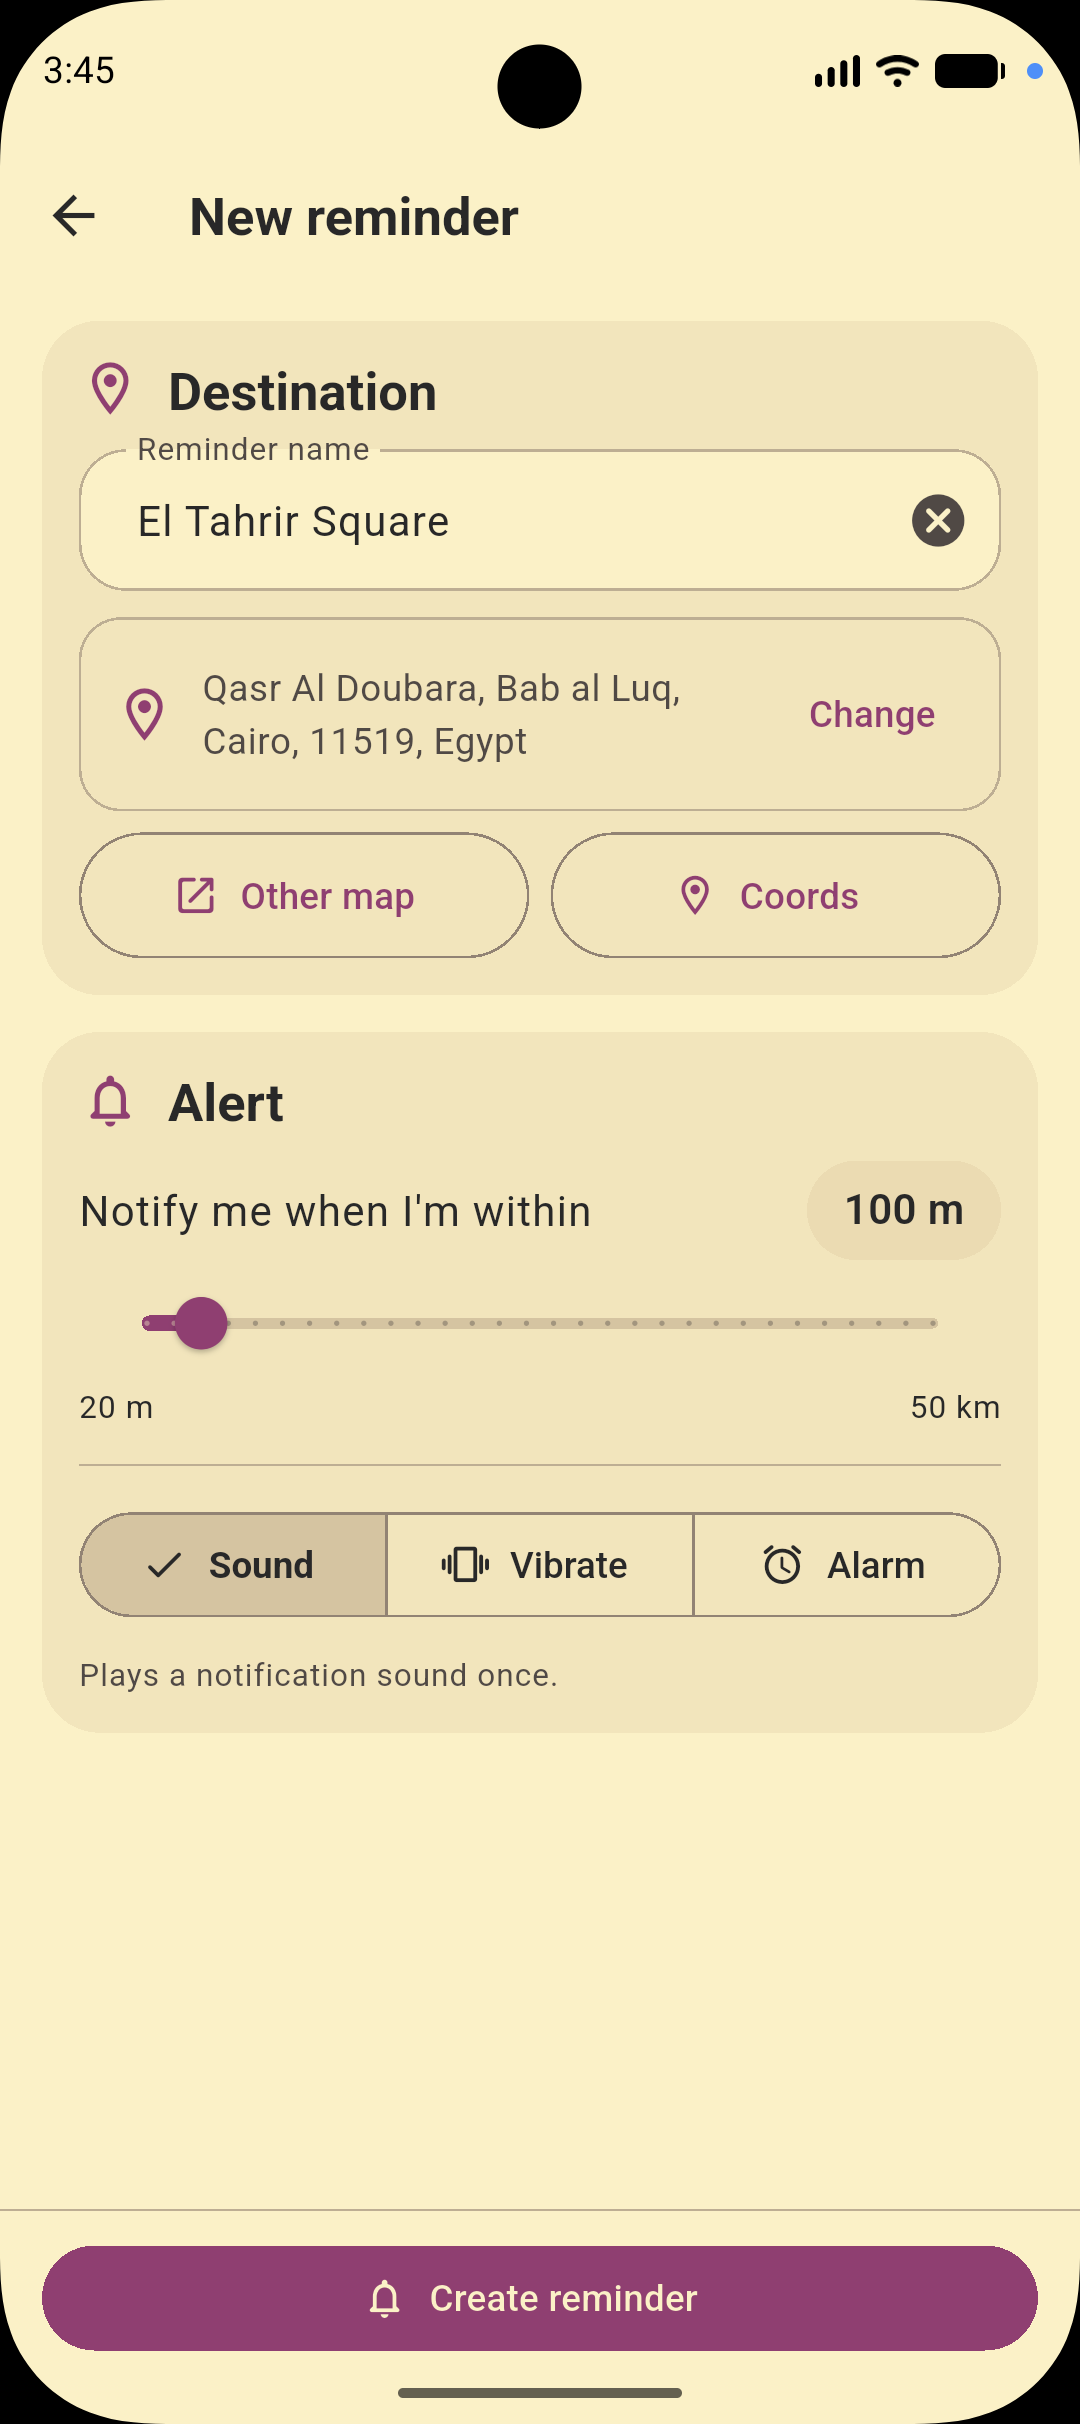
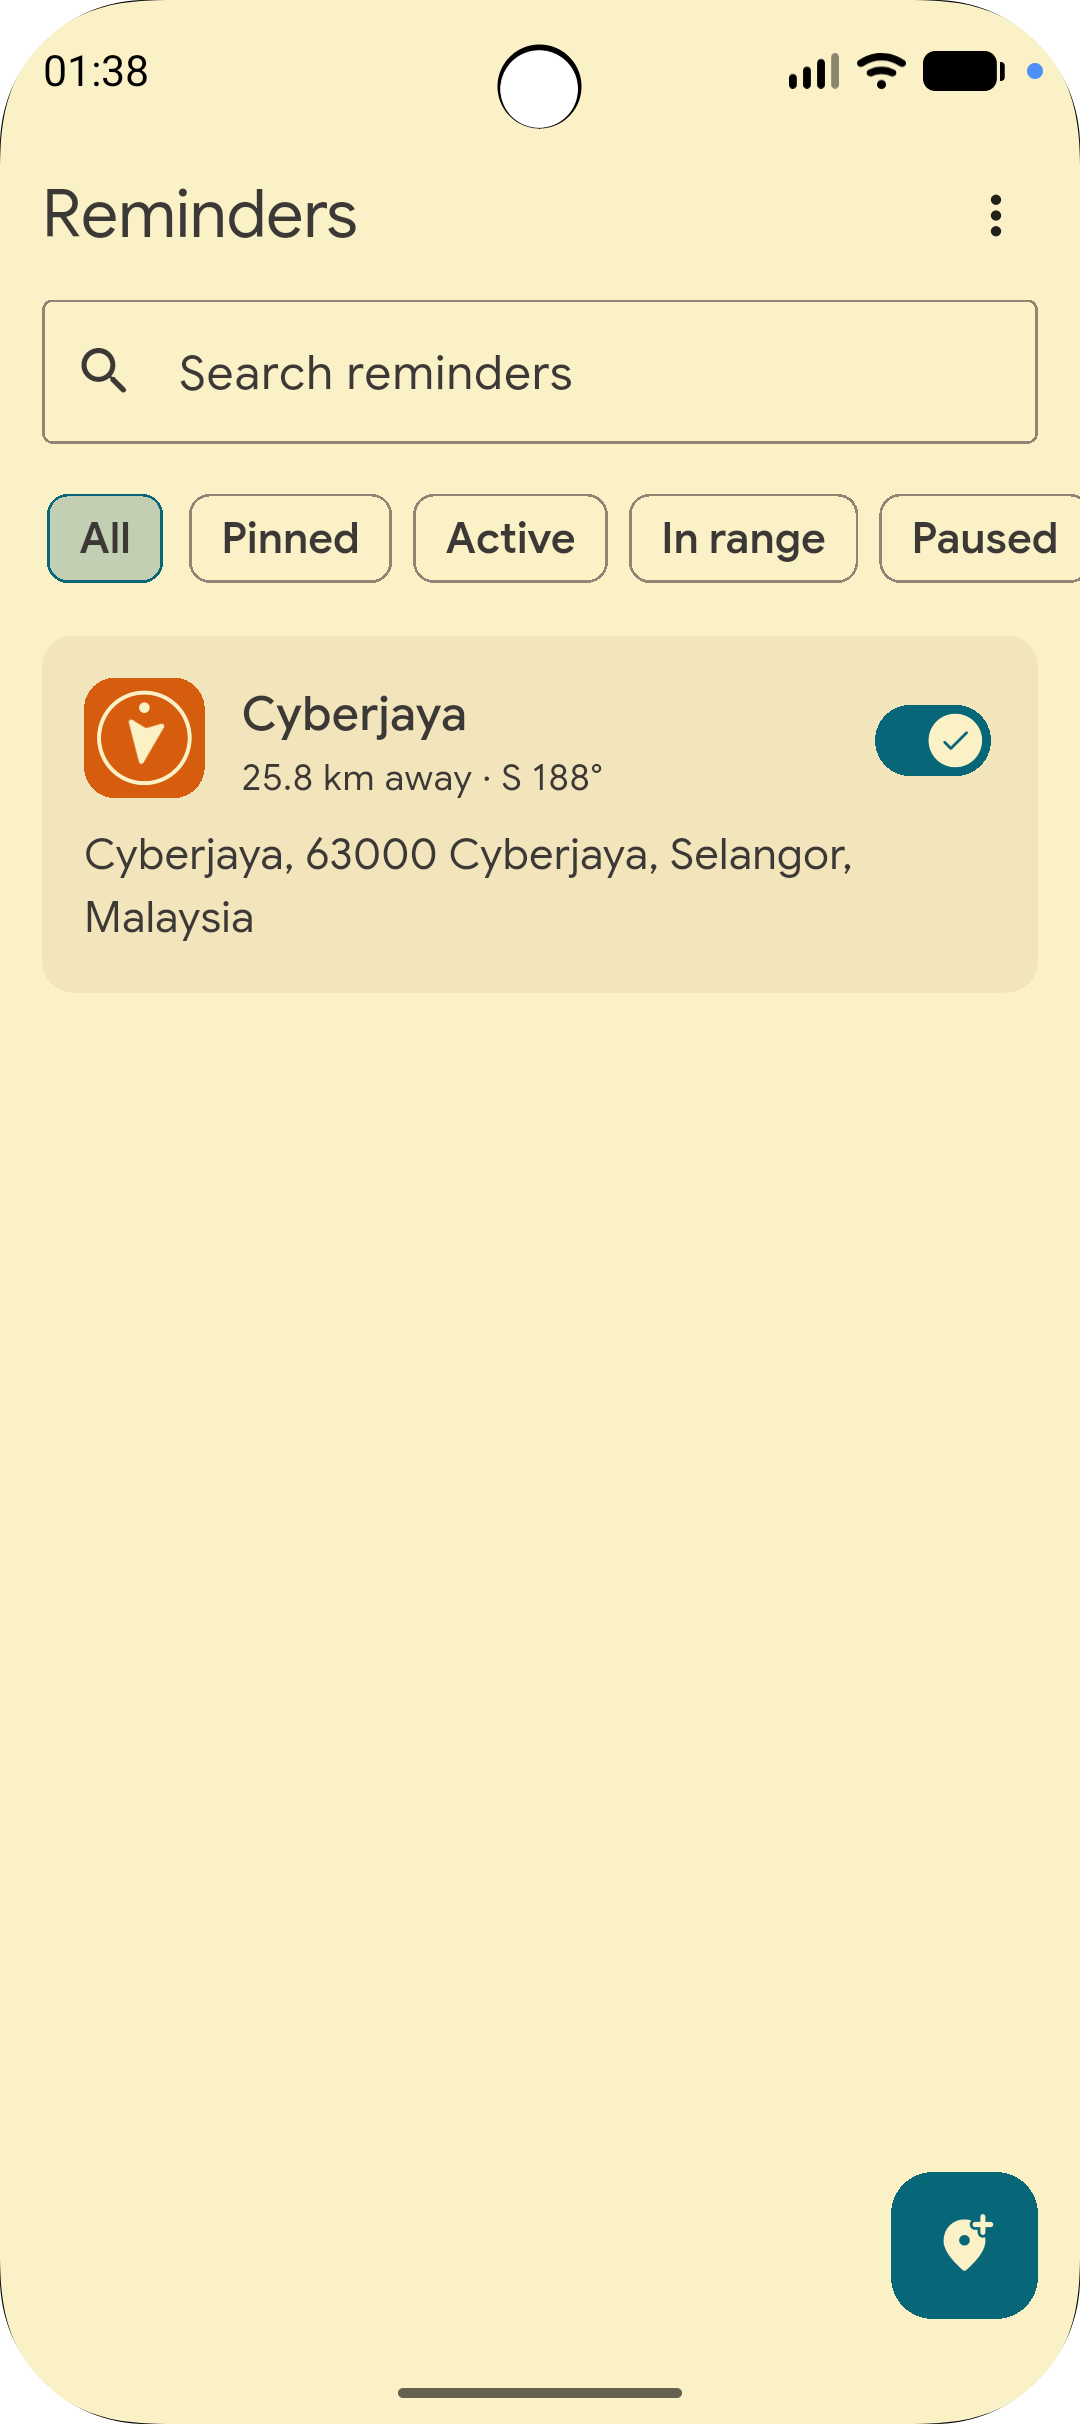
fix(l10n): fall back to English for unsupported locales (#103)
* fix(l10n): fall back to English for unsupported locales

* update app screenshots

diff --git a/index.html b/index.html
@@ -95,7 +95,7 @@
           <div class="screen-grid">
             <figure>
               <img
-                src="assets/screenshots/reminders.png"
+                src="fastlane/metadata/android/en-US/images/phoneScreenshots/2.png"
                 alt="Loc reminders screen showing active destinations"
                 loading="lazy"
               >
@@ -103,7 +103,7 @@
             </figure>
             <figure>
               <img
-                src="assets/screenshots/reminder-editor.png"
+                src="fastlane/metadata/android/en-US/images/phoneScreenshots/4.png"
                 alt="Loc reminder editor with alert distance and alert type controls"
                 loading="lazy"
               >
@@ -111,7 +111,7 @@
             </figure>
             <figure>
               <img
-                src="assets/screenshots/map-picker.png"
+                src="fastlane/metadata/android/en-US/images/phoneScreenshots/3.png"
                 alt="Loc map picker showing a destination at the Giza Pyramids"
                 loading="lazy"
               >

diff --git a/lib/l10n/l10n.dart b/lib/l10n/l10n.dart
@@ -15,3 +15,21 @@ Future<AppLocalizations> loadAppLocalizations(String? languageCode) {
   );
   return AppLocalizations.delegate.load(locale);
 }
+
+Locale resolveAppLocale(
+  List<Locale>? preferredLocales,
+  Iterable<Locale> supportedLocales,
+) {
+  for (final preferredLocale in preferredLocales ?? const <Locale>[]) {
+    for (final supportedLocale in supportedLocales) {
+      if (supportedLocale.languageCode == preferredLocale.languageCode) {
+        return supportedLocale;
+      }
+    }
+  }
+
+  return supportedLocales.firstWhere(
+    (locale) => locale.languageCode == 'en',
+    orElse: () => const Locale('en'),
+  );
+}

diff --git a/lib/main.dart b/lib/main.dart
@@ -110,6 +110,7 @@ class _LocAppState extends State<LocApp> with WidgetsBindingObserver {
             locale: state.locale,
             localizationsDelegates: AppLocalizations.localizationsDelegates,
             supportedLocales: AppLocalizations.supportedLocales,
+            localeListResolutionCallback: resolveAppLocale,
             theme: AppTheme.light(
               useSystemFont: state.useSystemFont,
               languageCode: state.effectiveLanguageCode,

diff --git a/test/localization_test.dart b/test/localization_test.dart
@@ -44,4 +44,12 @@ void main() {
 
     expect(find.text('Configurações'), findsOneWidget);
   });
+
+  test('unsupported device locale falls back to English', () {
+    final locale = resolveAppLocale(const [
+      Locale('de'),
+    ], AppLocalizations.supportedLocales);
+
+    expect(locale, const Locale('en'));
+  });
 }

diff --git a/lib/pages/map_picker_page.dart b/lib/pages/map_picker_page.dart
@@ -191,7 +191,7 @@ class _MapPickerPageState extends State<MapPickerPage> {
                   ),
                 ),
                 PositionedDirectional(
-                  start: 16,
+                  start: 0,
                   bottom: 0,
                   child: SafeArea(
                     child: Material(

diff --git a/README.md b/README.md
@@ -39,11 +39,11 @@
 ## Preview
 
 <p align="center">
-  <img src="assets/screenshots/map-picker.png" width="30%">
+  <img src="fastlane/metadata/android/en-US/images/phoneScreenshots/3.png" width="30%">
   &nbsp;
-  <img src="assets/screenshots/reminder-editor.png" width="30%">
+  <img src="fastlane/metadata/android/en-US/images/phoneScreenshots/4.png" width="30%">
   &nbsp;
-  <img src="assets/screenshots/reminders.png" width="30%">
+  <img src="fastlane/metadata/android/en-US/images/phoneScreenshots/2.png" width="30%">
 </p>
 
 ## Features
